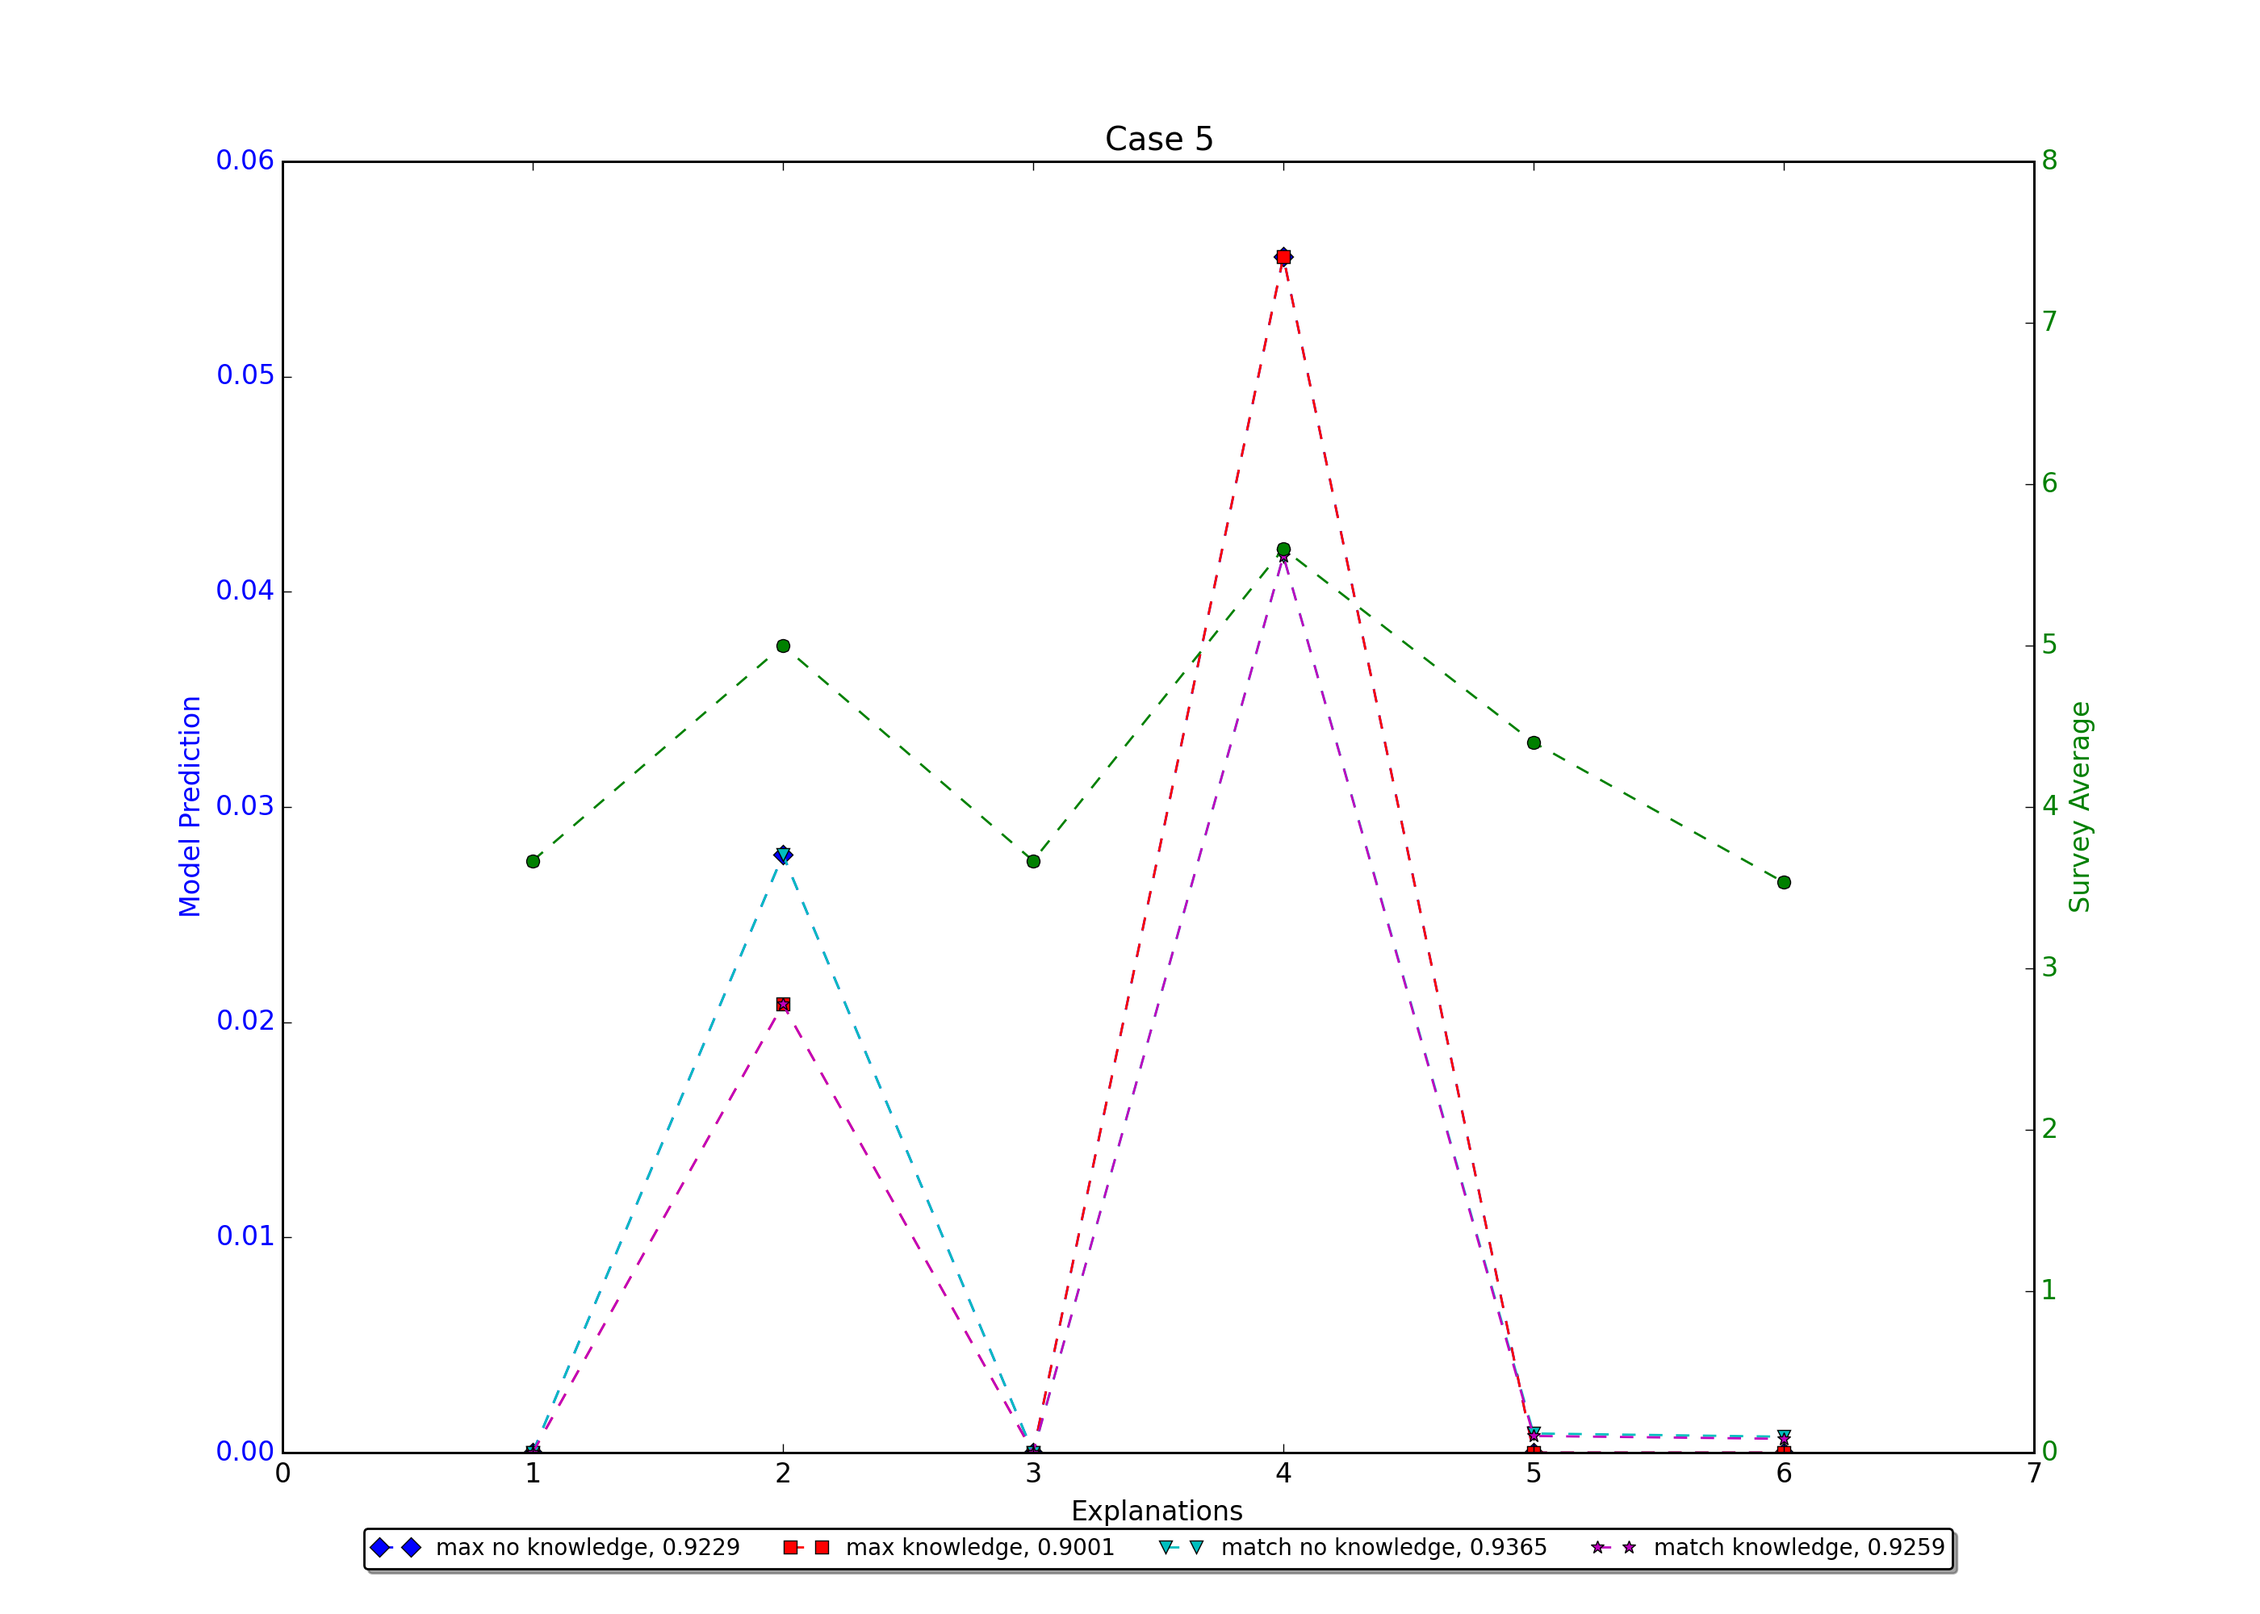
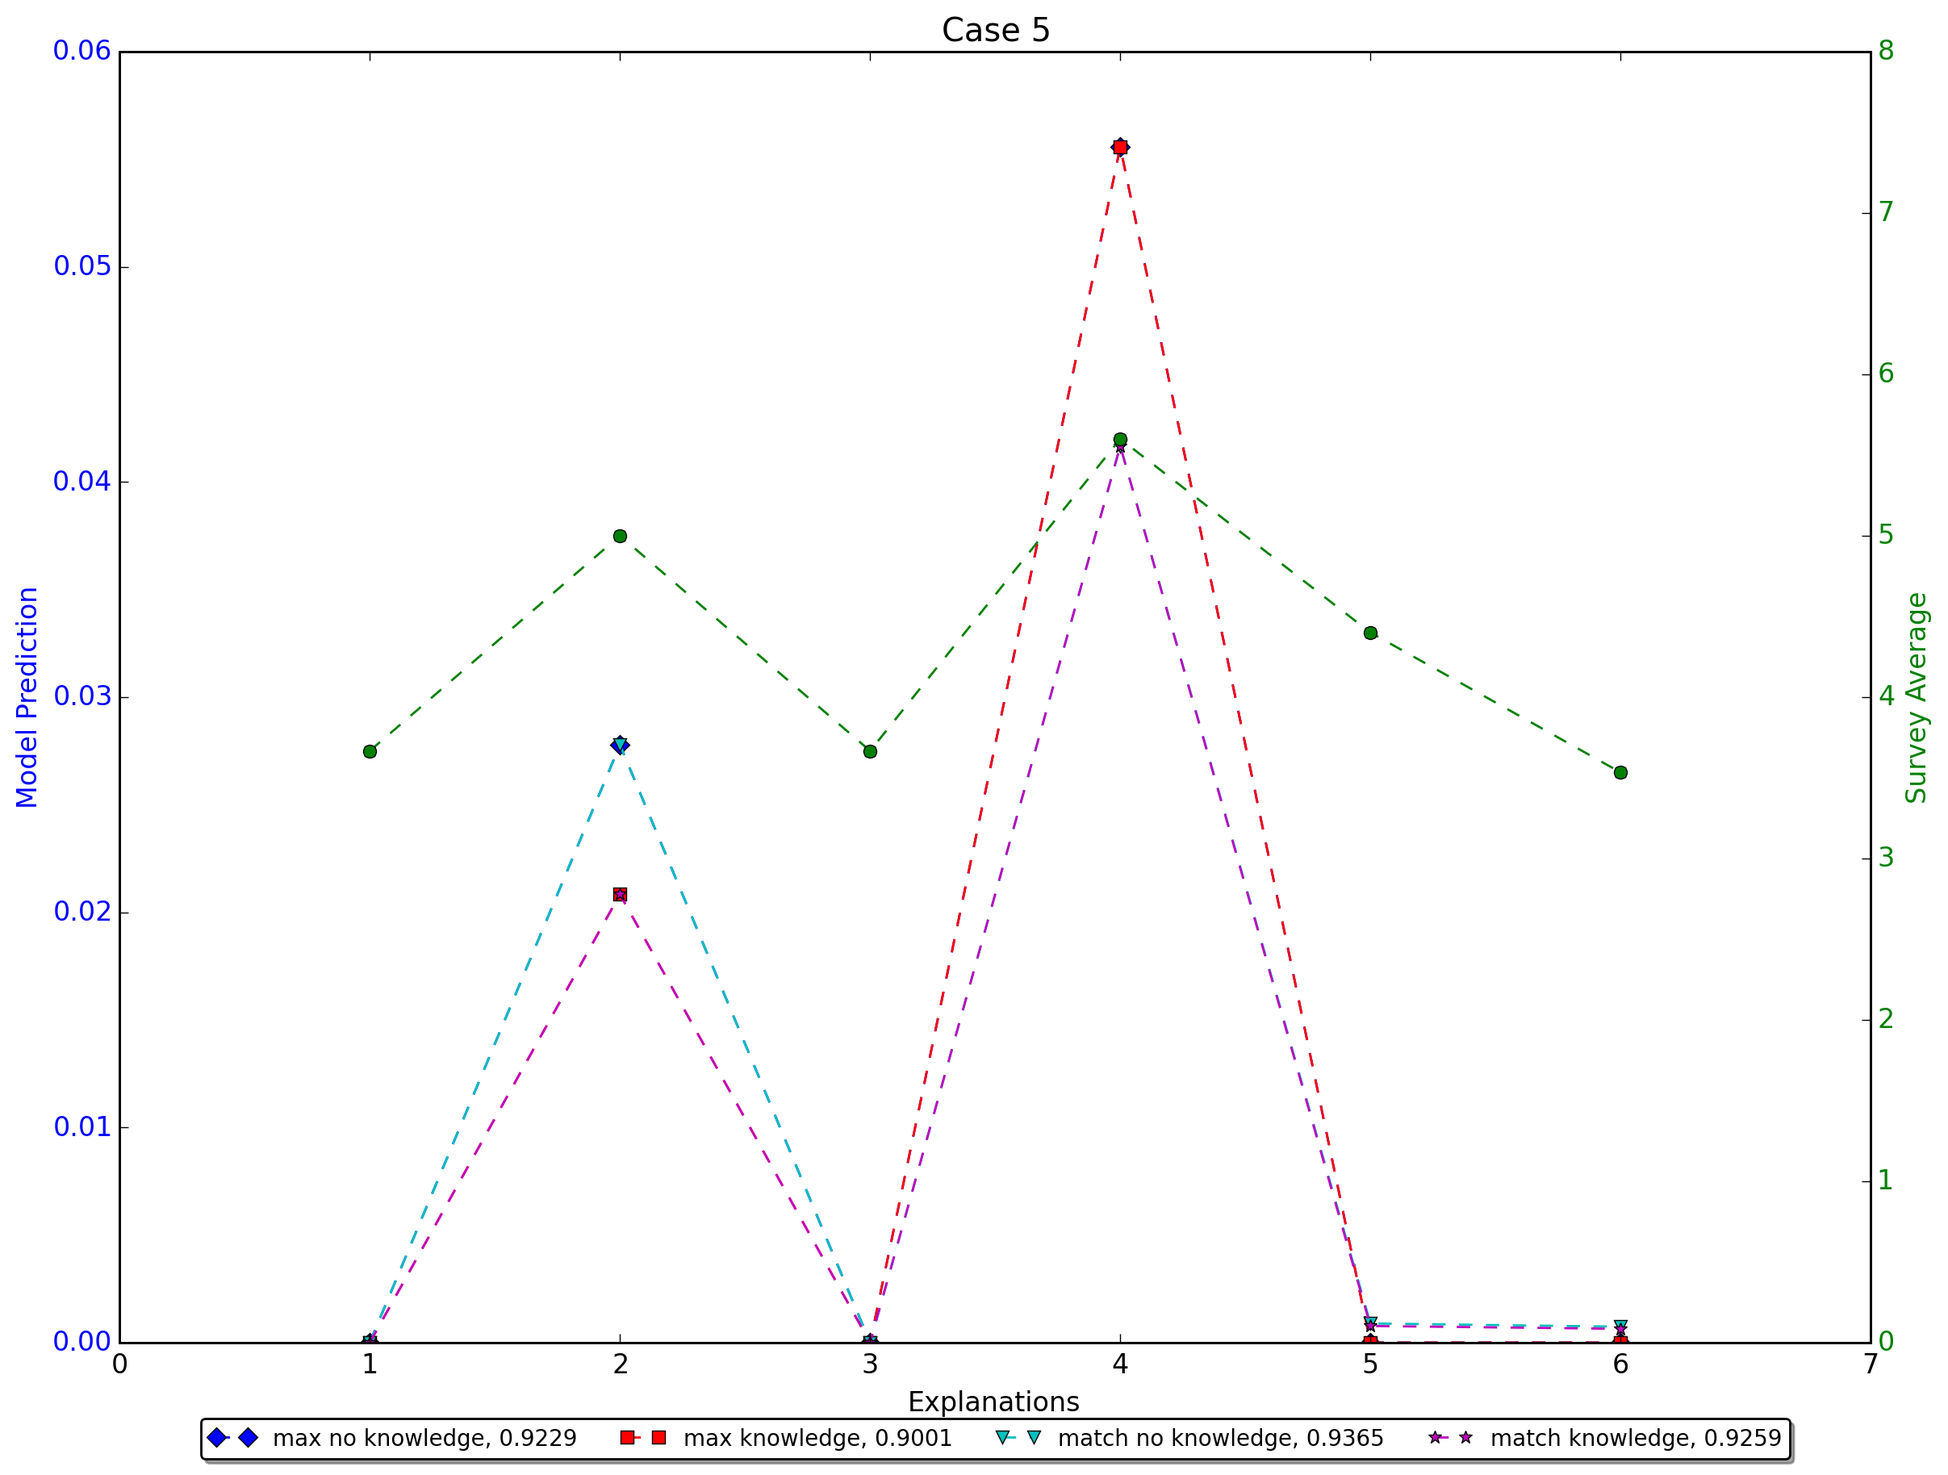
more plotting

diff --git a/plot.py b/plot.py
@@ -38,14 +38,14 @@ match_knowledge = [[0.05, 0.05, 0, 0.05, 0], #e1
                    [0.03846, 0.03846, 0, 0.03846, 0], #e3
                    [0.0416667, 0.0416667, 0.0416667, 0.0416667, 0.0416667], #e4
                    [0.00154, 0.00123, 0.00123, 0.000772, 0.000772], #e5
-                   [0.00255, 0.002296, 0.001, 0.001913, 0.00064]]
+                   [0.00255, 0.002296, 0.001, 0.001913, 0.00064]] #e6
 
 avg = [[4.4, 4.933333333, 3.2, 4.8, 3.666666667], #e1
        [5.4, 4.733333333, 4.2, 4.6, 5], #e2
        [5.533333333, 5.4, 3.666666667, 5.266666667, 3.666666667], #e3
        [4.2, 4.2, 5.333333333, 4.266666667, 5.6], #e4
        [4.533333333, 4.266666667, 4.6, 4.533333333, 4.4], #e5
-       [5.266666667, 5.4, 3.4, 4.933333333, 3.533333333]]
+       [5.266666667, 5.4, 3.4, 4.933333333, 3.533333333]] #e6
 
 
 for i in range(len(avg)):
@@ -86,7 +86,7 @@ for i in range(len(avg)):
     plt.title('Explanation '+str(i+1))
     
     fig.set_size_inches(14,10)
-    plt.savefig('exp'+str(i+1)+'_plot.png', dpi=200)
+    plt.savefig('exp'+str(i+1)+'_plot.png', dpi=200, bbox_inches='tight')
             
 max_no_knowledge = np.array(max_no_knowledge).transpose()
 max_knowledge = np.array(max_knowledge).transpose()
@@ -131,5 +131,138 @@ for i in range(len(avg)):
     plt.title('Case '+str(i+1))
     
     fig.set_size_inches(14,10)
-    plt.savefig('case'+str(i+1)+'_plot.png', dpi=200)
+    plt.savefig('case'+str(i+1)+'_plot.png', dpi=200, bbox_inches='tight')
             
+
+
+for x in [0,1]:
+    fig, axes = plt.subplots(4,5)
+    axes = np.asarray(axes).transpose()
+    
+    axes[0][0].set_title('Case 1')
+    axes[1][0].set_title('Case 2')
+    axes[2][0].set_title('Case 3')
+    axes[3][0].set_title('Case 4')
+    axes[4][0].set_title('Case 5')
+
+    for i in range(len(avg)):
+        ax_i = axes[i]
+        c1 = corr(max_no_knowledge[i], avg[i])
+        c2 = corr(max_knowledge[i], avg[i])
+        c3 = corr(match_no_knowledge[i], avg[i])
+        c4 = corr(match_knowledge[i], avg[i])
+        
+        ax_i[0].plot([1,2,3,4,5,6], max_no_knowledge[i], marker='D', linestyle='--', color='b', 
+                     label='max no knowledge, %.4f' % (c1 if x == 1 else 0))
+        ax_i[1].plot([1,2,3,4,5,6], max_knowledge[i], marker='s', linestyle='--', color='r', 
+                     label='max knowledge, %.4f' % (c2 if x == 1 else 0))
+        ax_i[2].plot([1,2,3,4,5,6], match_no_knowledge[i], marker='v', linestyle='--', color='c', 
+                     label='match no knowledge, %.4f' % (c3 if x == 1 else 0))
+        ax_i[3].plot([1,2,3,4,5,6], match_knowledge[i], marker='*', linestyle='--', color='m', 
+                     label='match knowledge, %.4f' % (c4 if x == 1 else 0))
+        map(lambda ax: ax.set_xlabel('Explanations'), ax_i)
+        map(lambda ax: ax.set_ylabel('Model Prediction', color='b'), ax_i) if i == 0 else ''
+
+        def setLabels(ax1):
+            for t in ax1.get_yticklabels():
+                t.set_color('b')
+        map(setLabels, ax_i)
+
+        map(lambda ax1: ax1.legend(loc='upper center', bbox_to_anchor=(0.5,-0.05), fancybox=True, 
+                                   shadow=True, ncol=4, fontsize='small'), ax_i)
+
+        def plotAvg(ax):
+            ax2 = ax.twinx()
+            ax2.plot([1,2,3,4,5,6], avg[i], color='g', marker='o', linestyle='--')
+            ax2.set_ylabel('Survey Average', color='g') if i == len(avg)-1 else ''
+            for t in ax2.get_yticklabels():
+                t.set_color('g')
+        
+            ax2.set_ylim(0,8)
+            ax.set_xlim(0,7)
+        map(plotAvg, ax_i) if x == 1 else ''
+
+    
+    
+        fig.set_size_inches(26,26)
+
+
+    fig.suptitle('Model Predictions And Data' if x == 1 else 'Model Predictions', 
+                 fontsize=34, fontweight='bold')
+    plt.savefig('total_plot.png' if x==1 else 'prediction_plot.png', dpi=200, bbox_inches='tight')
+
+
+fig, axes = plt.subplots(1,5)
+    
+axes[0].set_title('Case 1')
+axes[1].set_title('Case 2')
+axes[2].set_title('Case 3')
+axes[3].set_title('Case 4')
+axes[4].set_title('Case 5')
+
+for i in range(5):
+    axes[i].plot([1,2,3,4,5,6], avg[i], color='g', marker='o', linestyle='--')
+    axes[i].set_ylabel('Survey Average', color='g') if i == 0 else ''
+    for t in axes[i].get_yticklabels():
+        t.set_color('g')
+    axes[i].set_ylim(0,8)
+    axes[i].set_xlim(0,7)
+
+fig.set_size_inches(26,5.5)
+
+fig.suptitle('Human Data', fontsize=18, fontweight='bold')
+plt.savefig('human_data.png', dpi=200, bbox_inches='tight')
+
+
+fig, axes = plt.subplots(2,2)
+axes[0][0].set_title('Max No Knowledge')
+axes[0][1].set_title('Max Knowledge')
+axes[1][0].set_title('Match No Knowledge')
+axes[1][1].set_title('Match Knowledge')
+
+fig.suptitle('Model Predictions vs. Human Data', fontsize=20, fontweight='bold')
+
+favg = avg.flatten()
+
+axes[0][0].set_title('Max No Knowledge')
+cor = corr(max_no_knowledge.flatten(), favg)
+axes[0][0].plot(max_no_knowledge.flatten(), favg, color='b', marker = 'o', linestyle='',
+                label='Corr = %0.4f' % cor)
+axes[0][0].set_ylabel('Human Data')
+axes[0][0].set_xlabel('Model Predictions')
+axes[0][0].legend(loc='upper left', fancybox=True, 
+                                   shadow=True, ncol=4, fontsize='small')
+
+
+axes[0][1].set_title('Max Knowledge')
+cor = corr(max_knowledge.flatten(), favg)
+axes[0][1].plot(max_knowledge.flatten(), favg, color='b', marker = 'o', linestyle='',
+                label='Corr = %0.4f' % cor)
+axes[0][1].set_ylabel('Human Data')
+axes[0][1].set_xlabel('Model Predictions')
+axes[0][1].legend(loc='upper left', fancybox=True, 
+                                   shadow=True, ncol=4, fontsize='small')
+
+
+axes[1][0].set_title('Match No Knowledge')
+cor = corr(match_no_knowledge.flatten(), favg)
+axes[1][0].plot(match_no_knowledge.flatten(), favg, color='b', marker = 'o', linestyle='',
+                label='Corr = %0.4f' % cor)
+axes[1][0].set_ylabel('Human Data')
+axes[1][0].set_xlabel('Model Predictions')
+axes[1][0].legend(loc='upper left', fancybox=True, 
+                                   shadow=True, ncol=4, fontsize='small')
+
+
+axes[1][1].set_title('Match Knowledge')
+cor = corr(match_knowledge.flatten(), favg)
+axes[1][1].plot(match_knowledge.flatten(), favg, color='b', marker = 'o', linestyle='',
+                label='Corr = %0.4f' % cor)
+axes[1][1].set_ylabel('Human Data')
+axes[1][1].set_xlabel('Model Predictions')
+axes[1][1].legend(loc='upper left', fancybox=True, 
+                                   shadow=True, ncol=4, fontsize='small')
+
+
+fig.set_size_inches(15,15)
+plt.savefig('scatter_plot.png', dpi=200, bbox_inches='tight')
